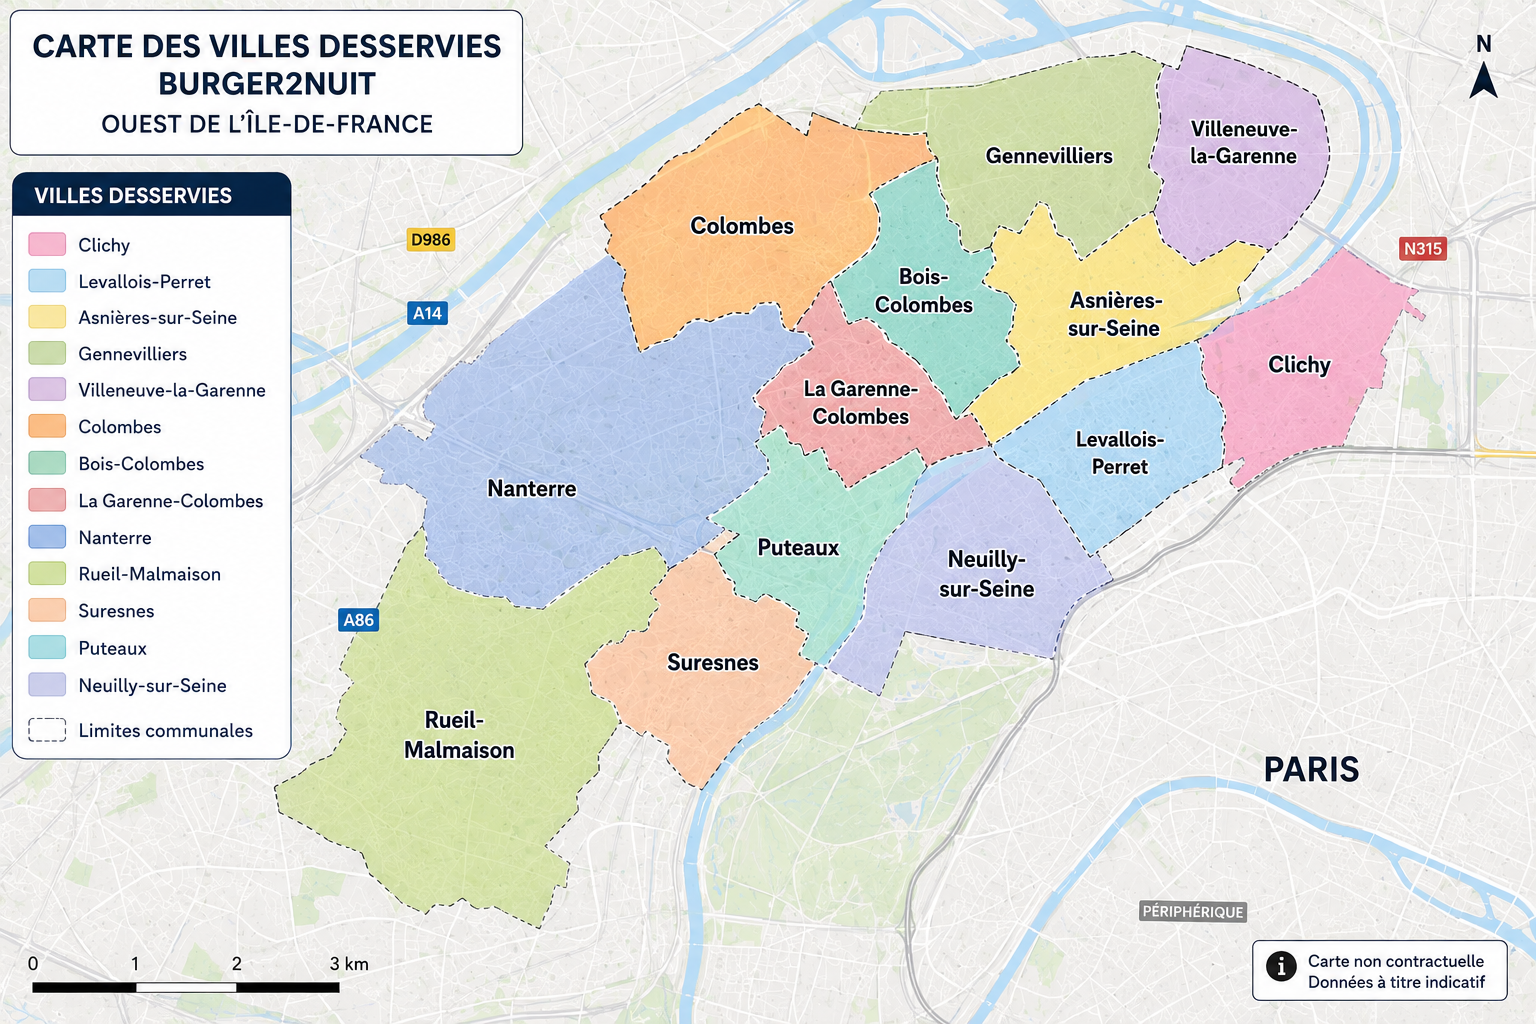
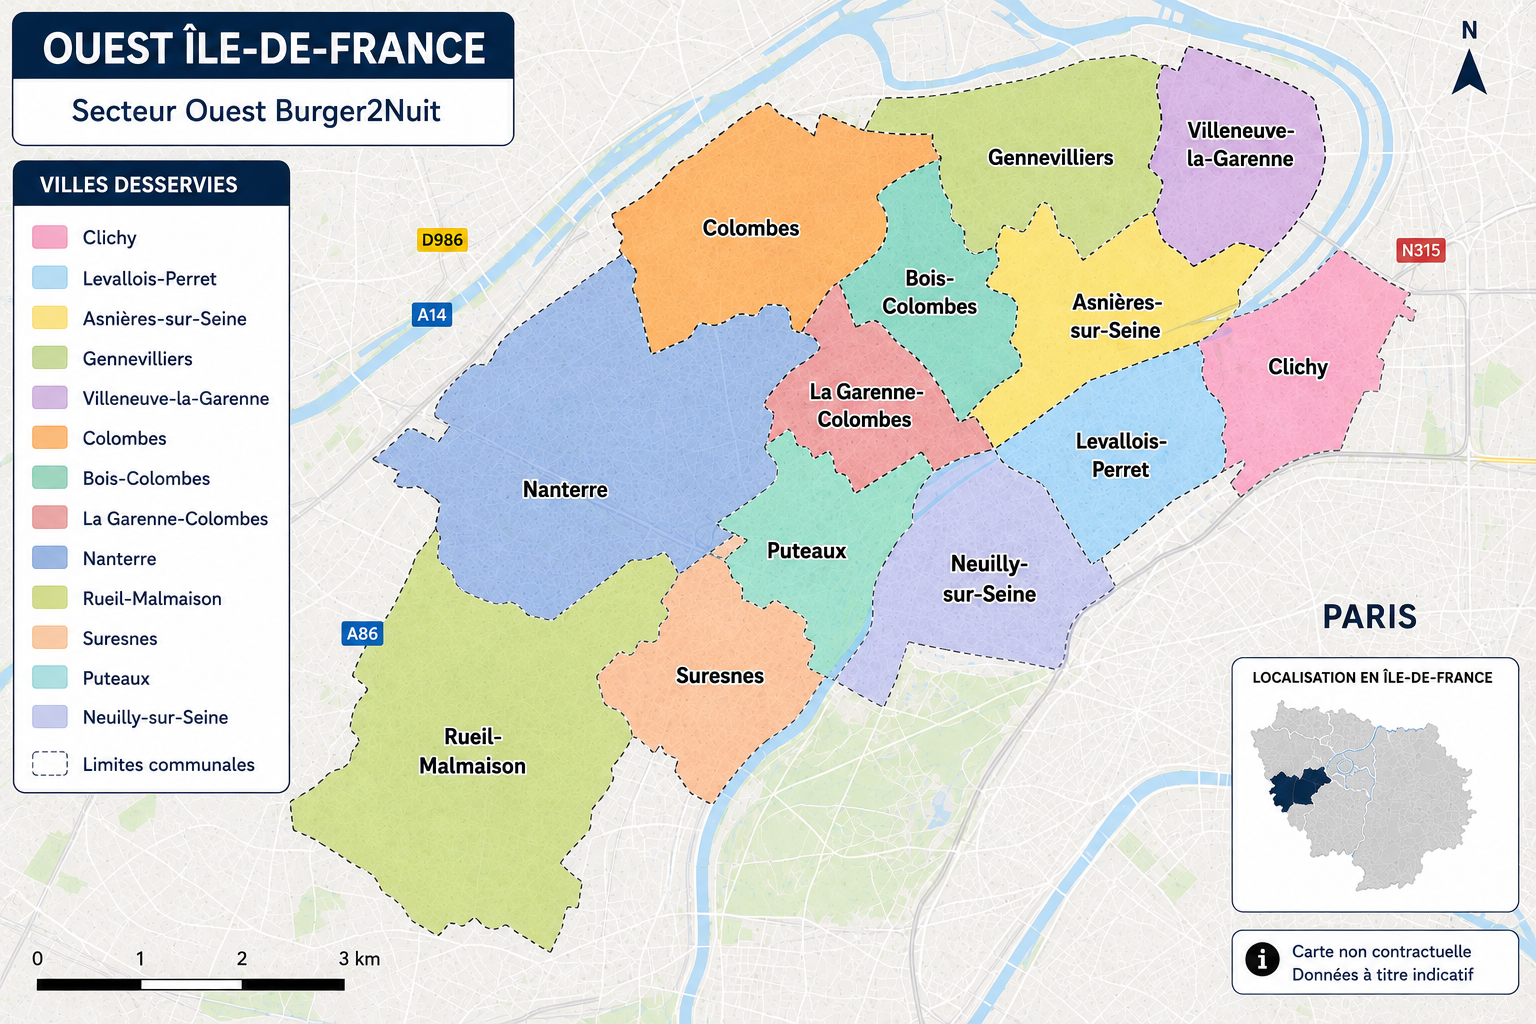
Fixing frontend

diff --git a/frontend/src/style.css b/frontend/src/style.css
@@ -94,7 +94,7 @@ a {
 
 .card {
   background: #1d1d1d;
-  border-radius: 15px;
+  border-radius: 10px;
   overflow: hidden;
   transition: 0.3s;
 }
@@ -105,7 +105,7 @@ a {
 
 .card img {
   width: 100%;
-  height: 250px;
+  height: 350px;
   object-fit: contain;
 }
 
@@ -151,10 +151,10 @@ a {
 .product-card img,
 .sector-card img {
   width: 100%;
-  height: 250px;
+  height: 350px;
   object-fit: contain;
   background: #222;
-  padding: 20px;
+  padding: 10px;
 }
 
 .product-card div,

diff --git a/frontend/src/pages/Menu.jsx b/frontend/src/pages/Menu.jsx
@@ -34,14 +34,14 @@ const products = [
     category: "Wraps",
     price: "8,00 €",
     image: "/images/wraps/crispy.jpg",
-    ingredients: "Pain Pita, Tenders, Double Cheddar, Crispy Onions, Sauce Maison"
+    ingredients: "Pain Pita, Tenders de poulet, Double Cheddar, Crispy Onions, Sauce Maison"
   },
   {
     name: "Tender Chicken Curry",
     category: "Wraps",
     price: "7,00 €",
     image: "/images/wraps/curry.jpg",
-    ingredients: "Pain Pita, Chicken, Double Cheddar, Sauce Curry"
+    ingredients: "Pain Pita, Poulet, Double Cheddar, Sauce Curry"
   },
   {
     name: "Tender Kebab",
@@ -104,7 +104,6 @@ const products = [
     category: "Boissons",
     price: "2,00 €",
     image: "/images/boissons/boissons.png",
-    ingredients: "Boisson fraîche"
   }
 ];
 